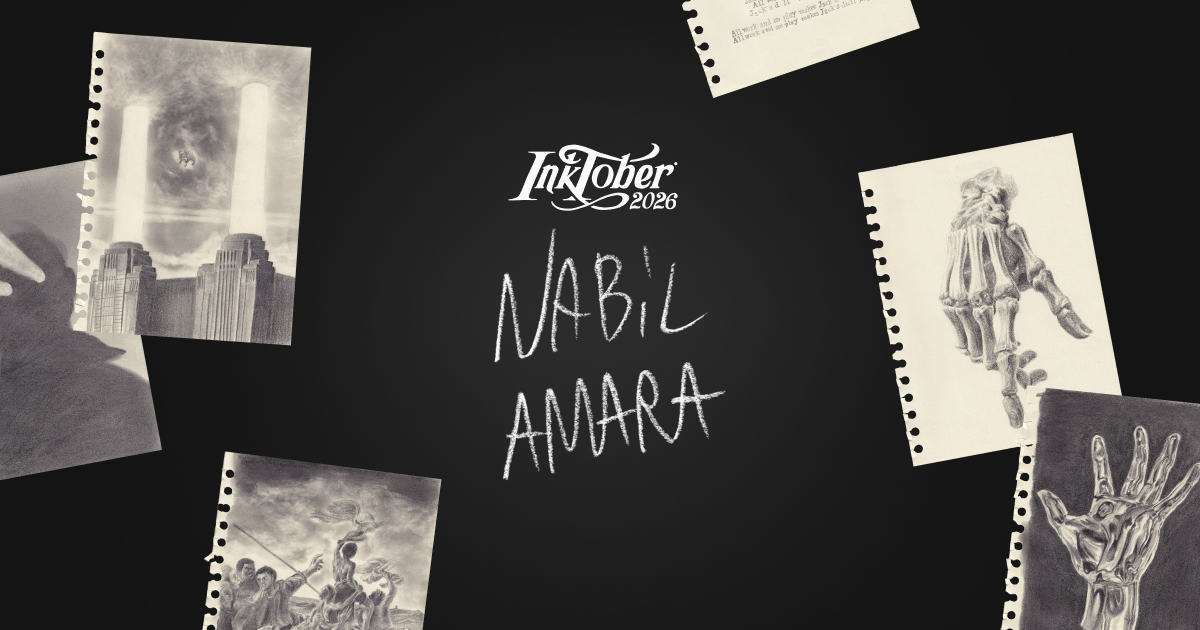
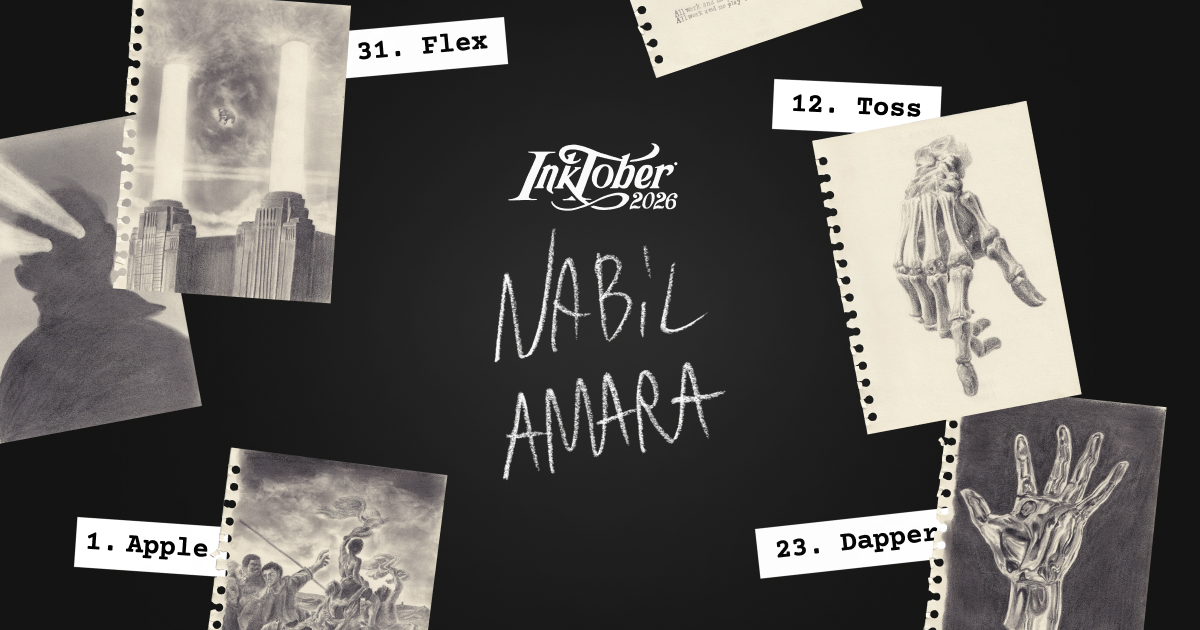
New share image
Claude-Session: https://claude.ai/code/session_01KmK7bAD47hAaRb54aSaV3E

diff --git a/index.html b/index.html
@@ -13,14 +13,14 @@
 <meta property="og:url" content="https://inktober.nabilamara.com/">
 <meta property="og:title" content="Inktober 2026, Nabil Amara">
 <meta property="og:description" content="Un dessin au graphite par jour pendant 31 jours, un mot, un dessin, une musique.">
-<meta property="og:image" content="https://inktober.nabilamara.com/og.jpg">
+<meta property="og:image" content="https://inktober.nabilamara.com/og.jpg?v=2">
 <meta property="og:image:width" content="1200">
 <meta property="og:image:height" content="630">
 <meta property="og:locale" content="fr_FR">
 <meta name="twitter:card" content="summary_large_image">
 <meta name="twitter:title" content="Inktober 2026, Nabil Amara">
 <meta name="twitter:description" content="Un dessin au graphite par jour pendant 31 jours, un mot, un dessin, une musique.">
-<meta name="twitter:image" content="https://inktober.nabilamara.com/og.jpg">
+<meta name="twitter:image" content="https://inktober.nabilamara.com/og.jpg?v=2">
 <meta name="theme-color" content="#111111">
 <meta name="claude:viewport-fit-sides" content="cover">
 <link rel="preconnect" href="https://fonts.googleapis.com">
